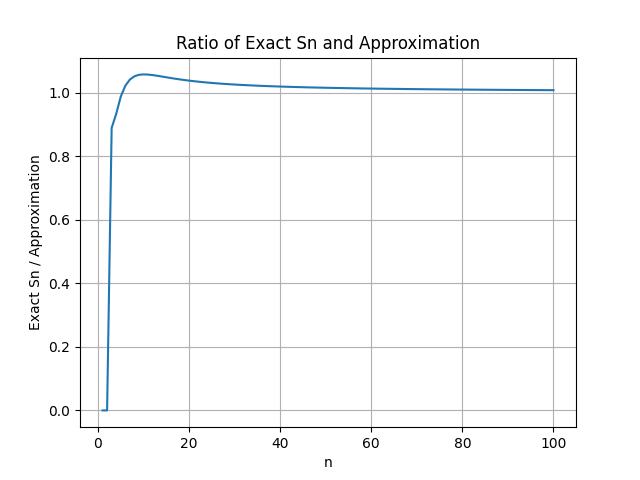
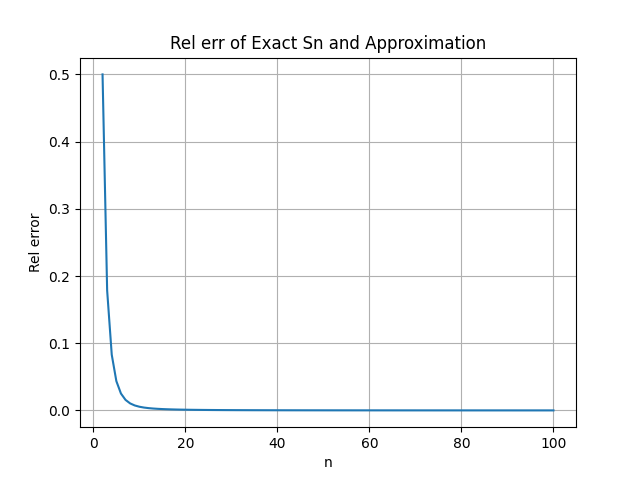
update

diff --git a/zad21/main.py b/zad21/main.py
@@ -15,23 +15,25 @@ class CountDistinct:
         self.rhf = RandomHashFamily(1)
     def onGet(self, a):
         t = self.rhf.hashes(a)[0]
+        randNum = t % 2
         t = t / (2**32-1)
         # t = (t[randint(0,1)]) / (2^64-1)
         assert(t <= 1)
-        lst = self.x if randint(0,1) == 0 else self.y
+        lst = self.x if randNum == 0 else self.y
         if t < lst[self.k-1] and t not in lst:
             lst.append(t)
             lst.sort()
             lst.pop()
     def estimate(self):
-        return (round((self.k-1)/(self.x[self.k-1])) + round((self.k-1)/(self.y[self.k-1])))//2
+        return (round((self.k-1)/(self.x[self.k-1])) + round((self.k-1)/(self.y[self.k-1])))
 
 
 if __name__ == "__main__":
-    url = "https://www.gutenberg.org/cache/epub/1184/pg1184.txt"
-    monteChristo = get(url)
-    body = monteChristo.text
-    res = findall(r"\w+", body)
+    text = ""
+    with open('data/christo.txt') as f:
+        for line in f:
+            text += line + "\n"
+    res = findall(r"\w+", text)
     words = set(res)
     l = len(words)
     print(f"exact size: {l}")

diff --git a/zad27/main.go b/zad27/main.go
@@ -7,7 +7,6 @@ import (
 	"os"
 )
 
-// Helper function to calculate the multinomial coefficient
 func multinomialCoefficient(n, n1, n2, n3 int) *big.Int {
 	if n1 < 0 || n2 < 0 || n3 < 0 || n1+n2+n3 != n {
 		return big.NewInt(0)
@@ -18,7 +17,6 @@ func multinomialCoefficient(n, n1, n2, n3 int) *big.Int {
 	return coeff
 }
 
-// Helper function to calculate the binomial coefficient (n choose k) using math/big
 func binomialCoefficient(n, k int) *big.Int {
 	if k > n {
 		return big.NewInt(0)
@@ -73,7 +71,7 @@ func main() {
 
 	file.WriteString("Aprox,Exact\n")
 
-	for n := 1; n <= 100; n++ {
+	for n := 1; n <= 50; n++ {
 		aprox := approximateTn(n)
 		exact := calculateTn(n)
 		_, err := file.WriteString(fmt.Sprintf("%f,%f\n", aprox, exact))

diff --git a/zad26/main.go b/zad26/main.go
@@ -7,7 +7,6 @@ import (
 	"os"
 )
 
-// Helper function to calculate the binomial coefficient (n choose k) using math/big
 func binomialCoefficient(n, k int) *big.Int {
 	if k > n {
 		return big.NewInt(0)
@@ -28,7 +27,6 @@ func binomialCoefficient(n, k int) *big.Int {
 	return result
 }
 
-// snExact calculates Sn exactly using math/big for arbitrary-precision integers
 func snExact(n int) float64 {
 	sumVal := big.NewFloat(0.0)
 	powTwoN := new(big.Float).SetFloat64(math.Pow(2, float64(n)))
@@ -45,7 +43,6 @@ func snExact(n int) float64 {
 	return result
 }
 
-// snApprox calculates the delta method approximation of Sn
 func snApprox(n int) float64 {
 	return float64(n)/2 - 0.25
 }

diff --git a/zad27/plot.py b/zad27/plot.py
@@ -4,15 +4,15 @@ from pandas import read_csv
 
 pd = read_csv(input("insert filename\n"))
 
-n_values = list(range(1, 101))
+n_values = list(range(1, 50))
 exact_values = pd['Exact']
 approx_values = pd['Aprox']
 
-ratios = [exact_values[i] / approx_values[i] for i in range(len(n_values))]
+errs = [abs(exact_values[i]-approx_values[i]) / exact_values[i] for i in range(len(n_values))]
 plt.clf()
-plt.plot(n_values, ratios)
+plt.plot(n_values, errs)
 plt.xlabel('n')
-plt.ylabel('Exact Sn / Approximation')
-plt.title('Ratio of Exact Sn and Approximation')
+plt.ylabel('rel err')
+plt.title('Rel error of Exact Sn and Approximation')
 plt.grid(True)
 plt.savefig('zad27.png')

diff --git a/zad26/plot.py b/zad26/plot.py
@@ -8,11 +8,11 @@ n_values = list(range(1, 101))
 exact_values = pd['Exact']
 approx_values = pd['Aprox']
 
-ratios = [exact_values[i] / approx_values[i] for i in range(len(n_values))]
+errs = [abs(exact_values[i]-approx_values[i]) / exact_values[i] for i in range(len(n_values))]
 plt.clf()
-plt.plot(n_values, ratios)
+plt.plot(n_values, errs)
 plt.xlabel('n')
-plt.ylabel('Exact Sn / Approximation')
-plt.title('Ratio of Exact Sn and Approximation')
+plt.ylabel('Rel error')
+plt.title('Rel err of Exact Sn and Approximation')
 plt.grid(True)
 plt.savefig('zad26.png')

diff --git a/zad18/main.py b/zad18/main.py
@@ -28,10 +28,11 @@ class CountDistinct:
 
 
 if __name__ == "__main__":
-    url = "https://www.gutenberg.org/cache/epub/1184/pg1184.txt"
-    monteChristo = get(url)
-    body = monteChristo.text
-    res = findall(r"\w+", body)
+    text = ""
+    with open('data/christo.txt') as f:
+        for line in f:
+            text += line + "\n"
+    res = findall(r"\w+", text)
     words = set(res)
     l = len(words)
     print(f"exact size: {l}")
